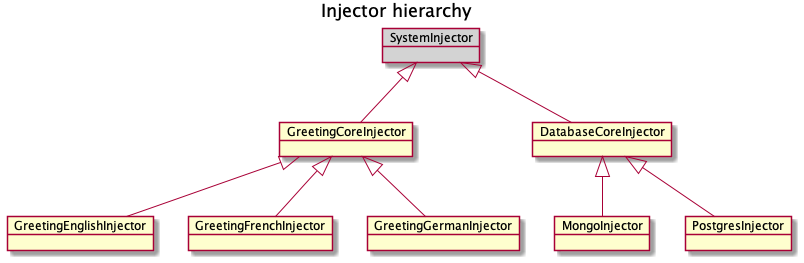
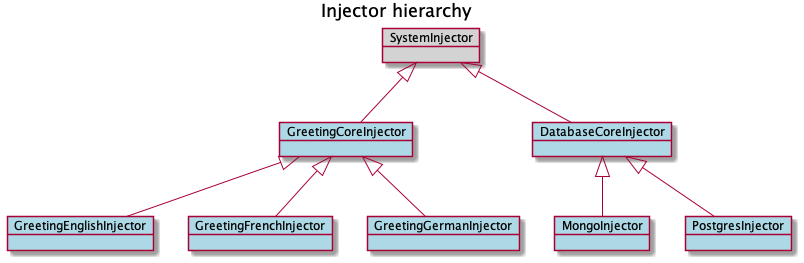
added "dynamic plugins" rectangle and changed colors

diff --git a/guicejavamodule/README.md b/guicejavamodule/README.md
@@ -27,7 +27,7 @@ to get automatically registered at the appropriate `ExtensionRegistry`.
 At runtime we get following injector inheritance. The `SystemInjector` is not created in this example but would be the choice for providing any system services to be injected in real world scenarios:
 ![Injector hierarchy](doc/injector-hierarchy.png "Injector hierarchy")
 
-As the following UML diagram of the complete code example shows, the final `application` is only depending on the core plugins `greeting-core` and `database-core` defining the service interfaces, it needs to deal with. There is no compile time and runtime dependency needed. All plugins are loaded as `jar` files from a directory by creating a dedicated [ModuleLayer](https://docs.oracle.com/javase/9/docs/api/java/lang/ModuleLayer.html) which even calculated the dependency graph of all plugins automatically.
+As the following UML diagram of the complete code example shows, the final `application` is only depending on the core plugins `greeting-core` and `database-core` defining the service interfaces, it needs to deal with. There is no compile time nor a runtime dependency needed. All extension plugins are dynamically loaded as `jar` files from a directory by creating a dedicated [ModuleLayer](https://docs.oracle.com/javase/9/docs/api/java/lang/ModuleLayer.html) which even calculated the dependency graph of all plugins automatically.
 
 ![UML diagram](doc/java-guice-pluginmodule.png "UML class diagram")
 
